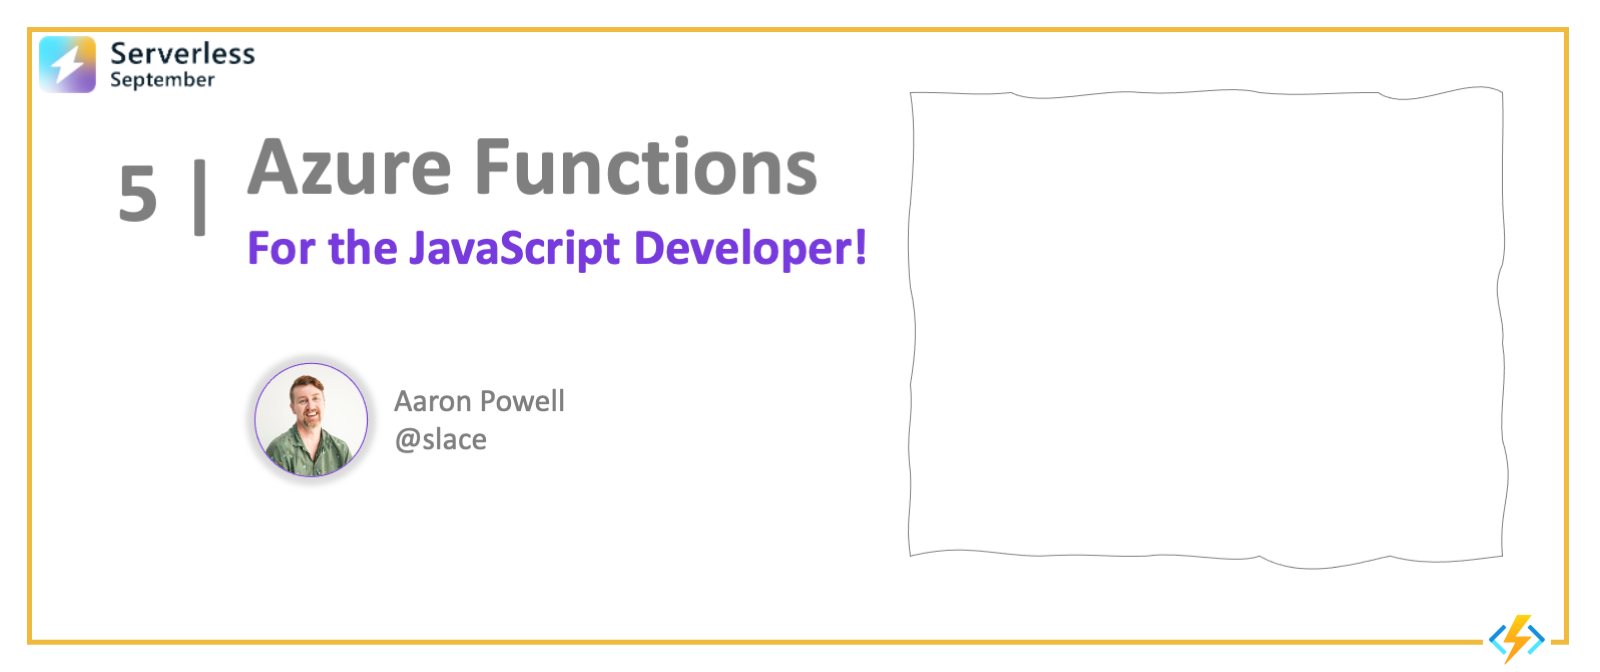
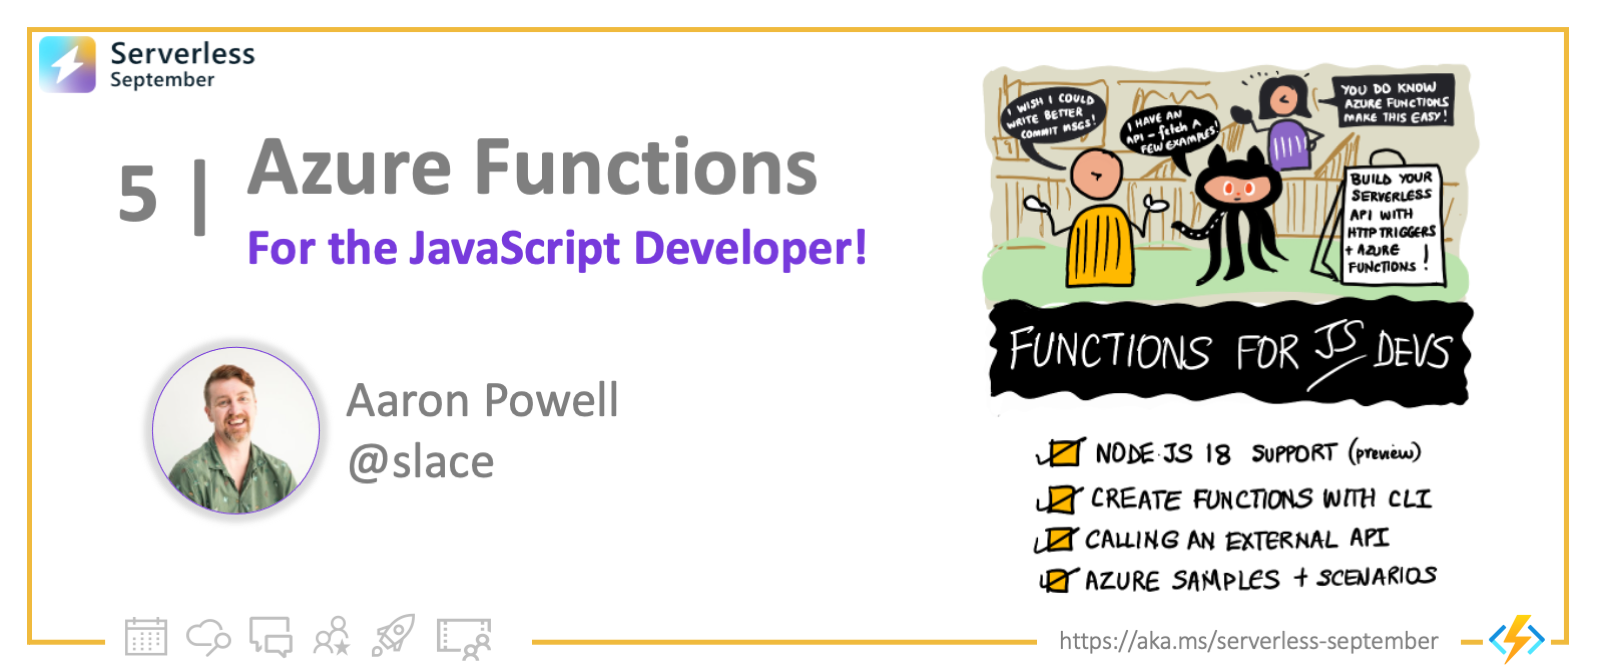
Post #05 / Published

diff --git a/website/src/css/custom.css b/website/src/css/custom.css
@@ -43,6 +43,13 @@
   --ifm-color-primary-lighter: #ffc326;
   --ifm-color-primary-lightest: #ffce4d;
 }
+/* GitHub-style Themed Images
+  https://docusaurus.io/docs/markdown-features/assets#github-style-themed-images
+ */
+[data-theme='light'] img[src$='#gh-dark-mode-only'],
+[data-theme='dark'] img[src$='#gh-light-mode-only'] {
+  display: none;
+}
 
 /*
 [data-theme='dark'] {

diff --git a/website/blog/2022-09-05/index.md b/website/blog/2022-09-05/index.md
@@ -9,16 +9,16 @@ toc_max_heading_level: 3
 keywords: [azure, functions, serverless, concepts]
 image: ./img/banner.png
 description: "Introduction to Azure Functions, from core concepts to hello world!" 
-tags: [serverless-september, 30-days-of-serverless, serverless-hacks, zero-to-hero, ask-the-expert, azure-functions, azure-container-apps, azure-event-grid, azure-logic-apps, serverless-e2e]
+tags: [serverless-september, 30-days-of-serverless, azure-functions, azure-container-apps, javascript]
 ---
 
 <head>
   <meta name="twitter:url" 
-    content="https://azure.github.io/Cloud-Native/blog/functions-1" />
+    content="https://azure.github.io/Cloud-Native/blog/05-functions-js" />
   <meta name="twitter:title" 
-    content="#30DaysOfServerless: Azure Functions Fundamentals" />
+    content="#30DaysOfServerless: Azure Functions for JavaScript Developers" />
   <meta name="twitter:description" 
-    content="#30DaysOfServerless: Azure Functions Fundamentals" />
+    content="#30DaysOfServerless: Azure Functions for JavaScript Developers" />
   <meta name="twitter:image"
     content="https://azure.github.io/Cloud-Native/img/banners/post-kickoff.png" />
   <meta name="twitter:card" content="summary_large_image" />
@@ -33,14 +33,19 @@ tags: [serverless-september, 30-days-of-serverless, serverless-hacks, zero-to-he
 
 Welcome to `Day 5` of #30DaysOfServerless!
 
-The theme for this week is Azure Functions. We'll talk about building a serverless HTTP API using JavaScript.
+_Yesterday_ we looked at Azure Functions from the perspective of a Java developer. _Today_, we'll do a similar walkthrough from the perspective of a JavaScript developer. 
+
+And, we'll use this to explore another popular usage scenario for Azure Functions: **building a serverless HTTP API using JavaScript**. 
+
+Ready? Let's go.
 
 ---
 
 ## What We'll Cover
- * Creating an Azure Function
- * Adding a HTTP Trigger
+ * Developer Guidance
+ * Create Azure Function with CLI
  * Calling an external API
+ * Azure Samples & Scenarios for JS
  * Exercise: Support searching
  * Resources: For self-study!
 
@@ -48,15 +53,34 @@ The theme for this week is Azure Functions. We'll talk about building a serverle
 
 ---
 
-As we continue to explore how we can use Azure Functions, today we're going to look at using JavaScript to create one, and we're going to be using the newly release [Node.js 18 support for Azure Functions](https://azure.microsoft.com/updates/public-preview-nodejs-18-in-azure-functions/) to make the most out of the platform.
+## Developer Guidance
+
+If you're a JavaScript developer new to serverless on Azure, start by exploring the [Azure Functions JavaScript Developers Guide](https://docs.microsoft.com/en-us/azure/azure-functions/functions-reference-node?tabs=v2-v3-v4-export%2Cv2-v3-v4-done%2Cv2%2Cv2-log-custom-telemetry%2Cv2-accessing-request-and-response%2Cwindows-setting-the-node-version&WT.mc_id=javascript-74010-cxa). It covers:
+ * Quickstarts for Node.js - using Visual Code, CLI or Azure Portal
+ * Guidance on hosting options and performance considerations
+ * Azure Functions [bindings](https://docs.microsoft.com/en-us/azure/azure-functions/functions-triggers-bindings?tabs=javascript#bindings-code-examples?WT.mc_id=javascript-74010-cxa) and ([code samples](https://docs.microsoft.com/en-us/samples/browse/?products=azure-functions&languages=javascript&WT.mc_id=javascript-74010-cxa)) for JavaScript
+ * Scenario examples - integrations with other Azure Services
+
+
+### Node.js 18 Support 
+
+:::info Node.js 18 Support (Public Preview)
+Azure Functions support for Node.js 18 [entered Public Preview on Aug 31, 2022](https://azure.microsoft.com/updates/public-preview-nodejs-18-in-azure-functions/?WT.mc_id=javascript-74010-cxa) and is supported by the [Azure Functions v.4.x runtime!](https://docs.microsoft.com/en-us/azure/azure-functions/functions-versions?tabs=azure-cli%2Cin-process%2Cv4&pivots=programming-language-javascript&WT.mc_id=javascript-74010-cxa)
+:::
+
+As we continue to explore how we can use Azure Functions, today we're going to look at using JavaScript to create one, and we're going to be using the newly released **Node.js 18 support for Azure Functions** to make the most out of the platform. 
+
+Ensure you have Node.js 18 and Azure Functions v4.x versions installed, along with a text editor (I'll use VS Code in this post), and a terminal, then we're ready to go.
+
+
+
+## Scenario: Calling The GitHub API
 
 The application we're going to be building today will use the GitHub API to return a random commit message, so that we don't need to come up with one ourselves! After all, naming things can be really hard! 🤣 
 
-Ensure you have Node.js 18 installed, a text editor (I'll use VS Code in this post), and a terminal, then we're ready to go.
 
-## Creating an Azure Function
-
-To create our Azure Function, we're going to use the [Azure Functions CLI](https://docs.microsoft.com/azure/azure-functions/functions-run-local?tabs=v4%2Cwindows%2Ccsharp%2Cportal%2Cbash), which we can install using npm:
+### Creating the Azure Function
+To create our Azure Function, we're going to use the [Azure Functions CLI](https://docs.microsoft.com/azure/azure-functions/functions-run-local?tabs=v4%2Cwindows%2Ccsharp%2Cportal%2Cbash&WT.mc_id=javascript-74010-cxa), which we can install using npm:
 
 ```bash
 npm install --global azure-function-core-tools
@@ -72,9 +96,9 @@ When running `func init` we can either provide the `worker-runtime` and `languag
 
 Once the `init` command is completed, you should have a `.vscode` folder, and the files `.gitignore`, `host.json`, `local.settings.json`, and `package.json`.
 
-![Files generated by func init](./img/light/01.png)
+![Files generated by func init](./img/light/01.png#gh-light-mode-only)![Files generated by func init](./img/01.png#gh-dark-mode-only)
 
-## Adding a HTTP Trigger
+### Adding a HTTP Trigger
 
 We have an empty Functions app so far, what we need to do next is create a Function that it will run, and we're going to make a HTTP Trigger Function, which is a Function that responds to HTTP requests. We'll use the `func new` command to create that:
 
@@ -116,7 +140,8 @@ Let's go ahead and start the Function and call it:
 func start
 ```
 
-![Starting the Function](./img/light/02.png)
+![Starting the Function](./img/light/02.png#gh-light-mode-only)![Starting the Function](./img/02.png#gh-dark-mode-only)
+
 
 With the Function started, access the endpoint `http://localhost:7071/api/get-commit-message` via a browser or using `cURL`:
 
@@ -124,9 +149,13 @@ With the Function started, access the endpoint `http://localhost:7071/api/get-co
 curl http://localhost:7071/api/get-commit-message\?name\=ServerlessSeptember
 ```
 
-![Hello from Azure Functions](./img/light/03.png)
+![Hello from Azure Functions](./img/light/03.png#gh-light-mode-only)![Hello from Azure Functions](./img/03.png#gh-dark-mode-only)
 
-## Calling an external API
+:::success 🎉 CONGRATULATIONS
+You created and ran a JavaScript function app locally!
+:::
+
+### Calling an external API
 
 It's time to update the Function to do what we want to do - call the GitHub Search API and get some commit messages. The endpoint that we'll be calling is [https://api.github.com/search/commits?q=language:javascript](https://api.github.com/search/commits?q=language:javascript).
 
@@ -169,16 +198,36 @@ curl http://localhost:7071/api/get-commit-message
 
 The you'll get some commit messages:
 
-![A series of commit messages from the GitHub Search API](./img/light/04.png)
+![A series of commit messages from the GitHub Search API](./img/light/04.png#gh-light-mode-only)![A series of commit messages from the GitHub Search API](./img/04.png#gh-dark-mode-only)
 
-🎉 There we go, we've created an Azure Function which is used as a proxy to another API, that we call using native `fetch` in Node.js 18, and return a subset of the JSON payload.
 
-## Exercise - Support searching
+:::success 🎉 CONGRATULATIONS
+There we go, we've created an Azure Function which is used as a proxy to another API, that we call (using native `fetch` in Node.js 18) and from which we return a subset of the JSON payload.
+:::
+
+
+## Next Steps
+
+### Other Triggers, Bindings
+
+This article focused on using the HTTPTrigger and relevant bindings, to build a serverless API using Azure Functions. How can you explore other supported bindings, with code samples to illustrate usage?
+ * Start with the [Bindings](https://docs.microsoft.com/en-us/azure/azure-functions/functions-triggers-bindings?tabs=javascript#bindings-code-examples?WT.mc_id=javascript-74010-cxa) documentation to get a list of supported triggers/bindings for JavaScript
+ * Explore the [Azure serverless community library](https://www.serverlesslibrary.net/?language=JavaScript) and [Azure Samples](https://docs.microsoft.com/en-us/samples/browse/?products=azure-functions&languages=javascript&WT.mc_id=javascript-74010-cxa) resources by technology.
+
+### Scenarios with Integrations
+
+Once you've tried out the samples, try building an end-to-end scenario by using these triggers to integrate seamlessly with other services. Here are some suggestions:
+ * [Azure Queue storage trigger and bindings](https://docs.microsoft.com/en-us/azure/azure-functions/functions-bindings-storage-queue?tabs=in-process%2Cextensionv5%2Cextensionv3&pivots=programming-language-javascript&WT.mc_id=javascript-74010-cxa)
+ * [Show GitHub start count with Azure SignalR service](https://docs.microsoft.com/en-us/azure/azure-signalr/signalr-quickstart-azure-functions-javascript?toc=%2Fazure%2Fazure-functions%2Ftoc.json&WT.mc_id=javascript-74010-cxa)
+ * [Deploy a GraphQL API as an Azure Function](https://docs.microsoft.com/en-us/azure/developer/javascript/how-to/with-web-app/graphql/azure-function-hello-world?tabs=visualstudiocode&WT.mc_id=javascript-74010-cxa)
+
+
+## Exercise: Support searching
 
 The GitHub Serach API allows you to provide search parameters via the `q` query string. In this sample, we hard-coded it to be `language:javascript`, but as a follow-on exercise, expand the Function to allow the caller to provide the search terms as a query string to the Azure Function, which is passed to the GitHub Search API. Hint - have a look at the `req` argument.
 
 ## Resources
 
-- [Public preview of Node.js 18 for Azure Functions](https://azure.microsoft.com/updates/public-preview-nodejs-18-in-azure-functions/)
+- [Public preview of Node.js 18 for Azure Functions](https://azure.microsoft.com/updates/public-preview-nodejs-18-in-azure-functions/?WT.mc_id=javascript-74010-cxa)
 - [`fetch` support in Node.js 18](https://nodejs.org/en/blog/announcements/v18-release-announce/#fetch-experimental)
-- [Refactor Node.js and Express APIs to Serverless APIs with Azure Functions](https://docs.microsoft.com/learn/modules/shift-nodejs-express-apis-serverless/)
+- [Refactor Node.js and Express APIs to Serverless APIs with Azure Functions](https://docs.microsoft.com/learn/modules/shift-nodejs-express-apis-serverless/?WT.mc_id=javascript-74010-cxa)
